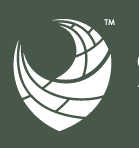
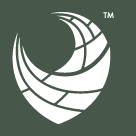
Fix endorsements

diff --git a/_includes/endorsement.html b/_includes/endorsement.html
@@ -1,6 +1,6 @@
 <div class="two wide column">
   <a href="{{ include.url }}" class="ui fluid image">
     <img src="/images/endorsement/{{ include.logo }}">
-    <p style="color: white; font-size: 0.7em; line-height: 1.2em">{{ include.title }}</p>
+    <!-- <p style="color: white; font-size: 0.7em; line-height: 1.2em">{{ include.title }}</p> -->
   </a>
 </div>

diff --git a/index.md b/index.md
@@ -48,7 +48,7 @@ layout: default
  <div class="centered row">
    <h1 class="ui title-font">Local Endorsements</h1>
  </div>
- <div class="ui centered grid">
+ <div class="ui centered padded grid">
     {% include endorsement.html logo="soest.jpeg" url="https://www.soest.hawaii.edu/"  title="School of Ocean and Earth Science and Technology" %} 
     {% include endorsement.html logo="sacnas.jpeg" url="http://www.sacnashawaii.org/" title="Hawaii Chapter of the Society for the Advancement of Chicanos/Hispanics and Native Americans in Science"%} 
     {% include endorsement.html logo="peps.png" url="https://cms.ctahr.hawaii.edu/peps/" title="Department of Plant and Environment Protection Services, University of Hawaii" %} 
@@ -56,6 +56,7 @@ layout: default
     {% include endorsement.html logo="hpha.jpeg" url="http://www.hawaiipublichealth.org/" title="Hawaii Public Health Association" %} 
     {% include endorsement.html logo="collegesocialsciences.png" url="http://www.socialsciences.hawaii.edu/" title="College of Social Sciences, University of Hawaii" %} 
     {% include endorsement.html logo="hafs.jpeg" url="http://www.hawaiiallianceforscience.com/" title="Hawaii Alliance for Science" %} 
+    {% include endorsement.html logo="uh-system.jpg" url="http://www.hawaii.edu/" title="University of Hawaii System" %} 
     
   </div>
 </div>
